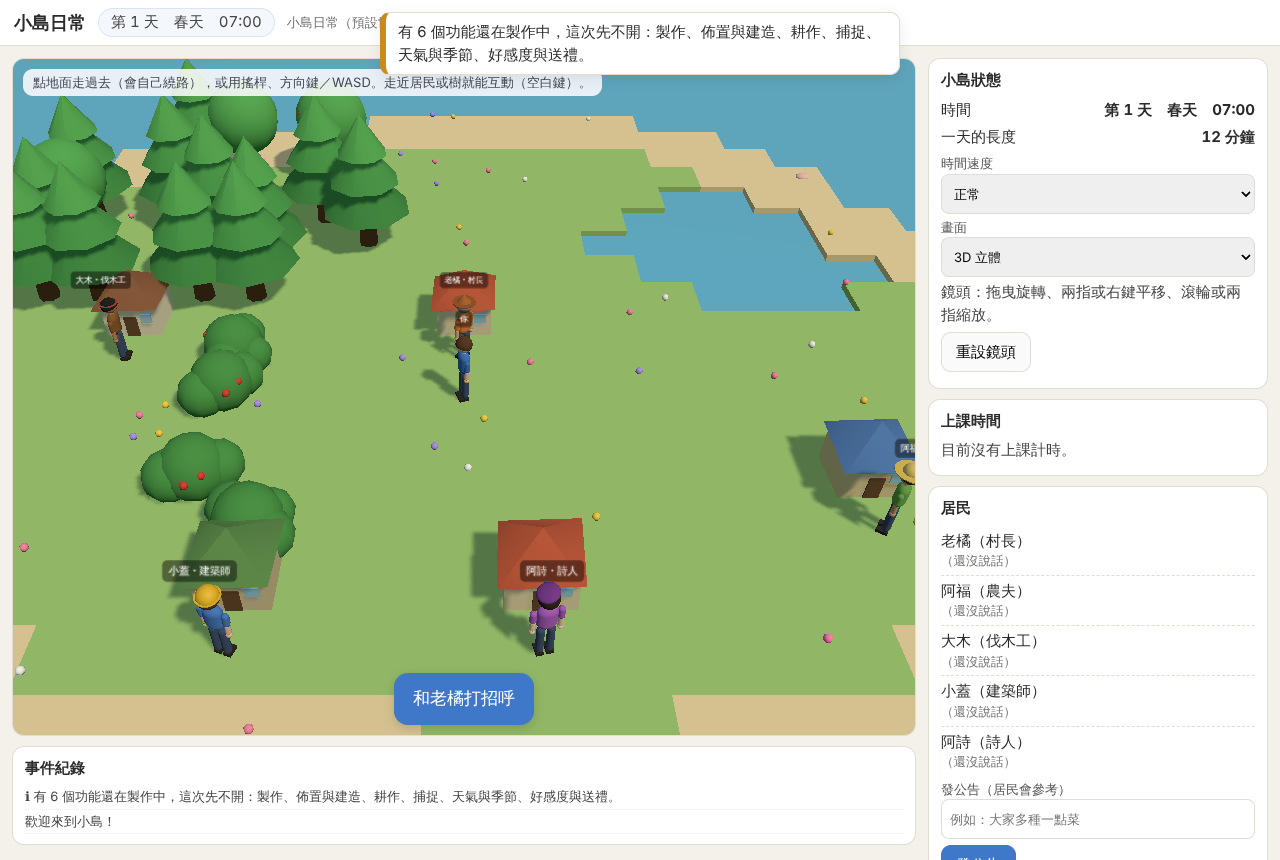
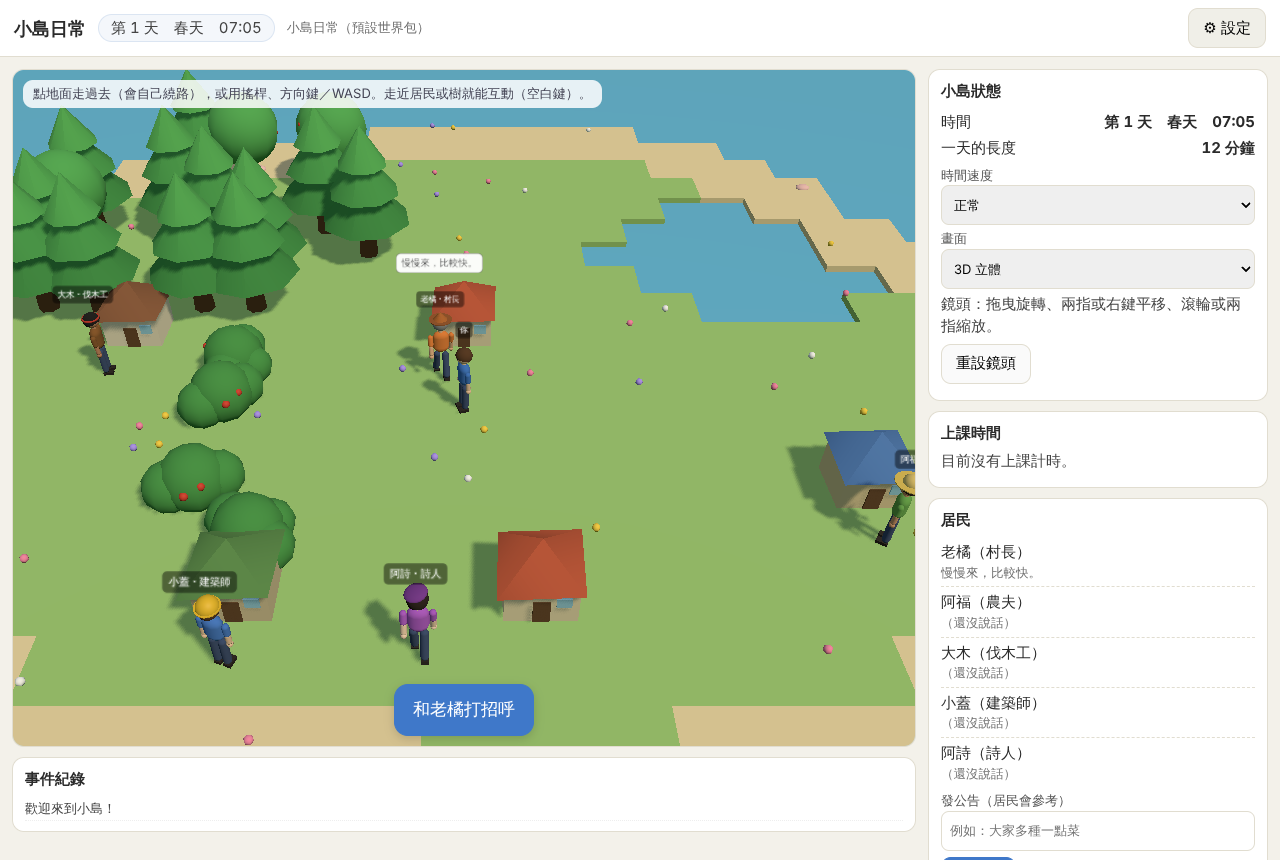
PR10：設定選單、回饋事件慣例、HUD 面板、輸入服務；玩家畫面不再顯示「還在製作中」
- 存檔、老師控制台、功能模組清單收進「⚙ 設定」選單（placement: 'settings'）；
  「還沒做好的功能」「不認得的功能」等管理資訊只在設定選單裡顯示
- 回饋事件慣例：<模組id>:feedback { kind, text, actor, at, entity, sound, quiet }；外殼替每個啟用的模組訂閱，目前顯示小字
- placement: 'hud' 的面板顯示在畫面上方
- 外殼服務：input（移動輸入、鏡頭角度）、policy 新增 playerMovement
- e2e 更新：設定選單、玩家畫面看不到管理資訊

未修改 src/core。

Claude-Session: https://claude.ai/code/session_0121tRRF6aCKPvw8nQbVPqNZ

diff --git a/src/shell/boot.js b/src/shell/boot.js
@@ -8,7 +8,7 @@
 //   ?seed=123              指定亂數種子（測試用）
 import { Engine, FrameworkError, validatePack, loadPack, parseOverrides, resolveEnabled, createCoreServices, defaultTextFilter } from '../core/index.js';
 import { createStorage } from './storage.js';
-import { createPanelHost, toast, log, showFatal, banner, showDialog } from './ui.js';
+import { createPanelHost, toast, log, showFatal, banner, showDialog, floatText } from './ui.js';
 import { createPlayerController } from './player.js';
 import { attachInput } from './input.js';
 import { createPolicy } from './policy.js';
@@ -89,14 +89,16 @@ async function boot() {
   // 3. 決定要開的模組（世界包預設 + 網址覆寫），載入程式
   const { enabled, config } = resolveEnabled(data.pack.modules, overrides);
   const notices = [];
-  const toLoad = [], notYet = [];
+  const toLoad = [], notYet = [], adminLater = [];
   for (const id of enabled) {
     const c = cat.get(id);
-    if (!c) notices.push(`網址或世界包裡的「${id}」不是已知的功能，已略過。`);
+    if (!c) adminLater.push(`網址或世界包裡的「${id}」不是已知的功能，已略過。`);
     else if (c.status === 'planned' || c.status === 'deferred') notYet.push(c.name || id);
     else toLoad.push(id);
   }
-  if (notYet.length) notices.push(`有 ${notYet.length} 個功能還在製作中，這次先不開：${notYet.join('、')}。`);
+  // 管理資訊（例如哪些功能還沒做好）只放在「設定」裡給老師看，不打擾玩家
+  const adminNotes = [...adminLater];
+  if (notYet.length) adminNotes.push(`有 ${notYet.length} 個功能還沒有做好，這次沒有開啟：${notYet.join('、')}。`);
   const defs = [];
   for (const id of toLoad) {
     try { defs.push((await import(`../modules/${id}/index.js`)).default); } catch (e) {
@@ -123,7 +125,10 @@ async function boot() {
     prefs: createPrefs(`townmind:${data.pack.id}`), // 和存檔分開的設定（例如老師密碼），開新遊戲不會清掉
     now: () => Date.now() + (debug.clockOffset || 0),
     save: () => requestSave(),
+    // 輸入（螢幕方向，長度 0～1）：給要自己控制角色的模組（例如競速時的滑板車）
+    input: { vector: () => inputRef?.vector() ?? { x: 0, y: 0 }, cameraAngle: () => (current === '3d' ? (views['3d']?.azimuth?.() ?? 0) : 0) },
   };
+  let inputRef = null;
   services.textFilter = (text, opts) => (policy.get('playerTyping', true) === false
     ? { ok: false, reason: policy.get('typingReason', '現在不能打字喔') }
     : defaultTextFilter(text, opts));
@@ -218,7 +223,10 @@ async function boot() {
   $('loading').remove();
 
   // 9. 面板：外殼自己的面板 + 模組註冊的宣告式面板
+  // 面板放哪裡：placement 'side'（右側，預設）、'hud'（畫面上方）、'settings'（設定選單，給老師與管理用）
   const host = createPanelHost($('panels'));
+  const settingsHost = createPanelHost($('settingsPanels'));
+  const hudHost = createPanelHost($('hudPanels'));
   const SPEEDS = [{ value: '0', label: '暫停' }, { value: '1', label: '正常' }, { value: '2', label: '2 倍' }, { value: '4', label: '4 倍' }, { value: '8', label: '8 倍' }];
   const shellPanels = () => [
     { id: 'shell.status', title: '小島狀態', order: 0, nodes: [
@@ -230,11 +238,11 @@ async function boot() {
       { type: 'select', name: 'view', label: '畫面', options: [{ value: '3d', label: '3D 立體' }, { value: '2d', label: '2D 俯視' }], value: current, onChange: 'view' },
       ...(current === '3d' ? [{ type: 'text', text: '鏡頭：拖曳旋轉、兩指或右鍵平移、滾輪或兩指縮放。' }, { type: 'button', label: '重設鏡頭', action: 'camReset' }] : []),
     ] },
-    ...engine.listPanels().filter((p) => typeof p.view === 'function').map((p) => ({ id: p.id, title: p.title, order: p.order, nodes: engine.renderPanel(p.id) })),
+    ...engine.listPanels().filter((p) => typeof p.view === 'function').map((p) => ({ id: p.id, title: p.title, order: p.order, placement: p.placement || 'side', nodes: engine.renderPanel(p.id) })),
     { id: 'shell.bag', title: '背包', order: 900, nodes: [
       { type: 'list', items: inventory.list('player').map((s) => ({ label: `${s.name} × ${s.qty}` })), empty: '背包是空的' },
     ] },
-    { id: 'shell.save', title: '存檔', order: 950, nodes: [
+    { id: 'shell.save', title: '存檔', order: 950, placement: 'settings', nodes: [
       { type: 'text', text: storage.persistent ? '每 20 秒與關閉網頁時會自動存檔。' : '⚠ 這個瀏覽器不能長期保存（可能是無痕模式），請記得「匯出存檔」。' },
       { type: 'buttons', items: [
         { type: 'button', label: '立刻存檔', action: 'save', primary: true },
@@ -246,9 +254,10 @@ async function boot() {
         ] : []),
       ] },
     ] },
-    { id: 'shell.modules', title: '這次開啟的功能', order: 990, nodes: [
-      { type: 'list', items: engine.enabledModules().map((id) => ({ label: labels[id] || id })), empty: '目前沒有開啟任何功能模組' },
-      ...(notices.length ? [{ type: 'list', items: notices.map((n) => ({ label: n })) }] : []),
+    { id: 'shell.modules', title: '功能模組', order: 990, placement: 'settings', nodes: [
+      { type: 'text', text: '這次開啟的功能（可在世界包 pack.json 或網址 ?mods=功能=off 開關）：' },
+      { type: 'list', items: engine.enabledModules().map((id) => ({ label: labels[id] || id, detail: id })), empty: '目前沒有開啟任何功能模組' },
+      ...([...adminNotes, ...notices].length ? [{ type: 'list', items: [...adminNotes, ...notices].map((n) => ({ label: n })) }] : []),
     ] },
   ].sort((a, b) => a.order - b.order);
 
@@ -304,9 +313,23 @@ async function boot() {
     const now = performance.now();
     if (!force && now - lastPanels < 300) return;
     lastPanels = now;
-    host.update(shellPanels(), { onButton });
+    const all = shellPanels();
+    host.update(all.filter((p) => !p.placement || p.placement === 'side'), { onButton });
+    settingsHost.update(all.filter((p) => p.placement === 'settings'), { onButton });
+    hudHost.update(all.filter((p) => p.placement === 'hud' && p.nodes.length), { onButton });
     $('clock').textContent = time.clockText();
   };
+
+  // 回饋事件：每個模組在關鍵時刻發「<模組id>:feedback」（成功、失敗、完成、解鎖、進度）。
+  // 外殼目前只顯示一個小提示；之後畫面特效、音效、粒子都訂閱同一個事件即可，不必改模組。
+  const feedbackLog = [];
+  for (const id of engine.enabledModules()) {
+    engine.events.on(`${id}:feedback`, (fb) => {
+      feedbackLog.push({ module: id, ...fb });
+      if (feedbackLog.length > 100) feedbackLog.shift();
+      if (fb?.text && fb.quiet !== true) floatText(fb.text, fb.kind);
+    });
+  }
 
   // 模組錯誤 → 事件紀錄（白話）；指令被拒 → 不吵，按鈕旁已有原因
   engine.events.on('core:dayStarted', (d) => { if (!d.offline) log(`🌅 第 ${d.day} 天開始了`); });
@@ -347,7 +370,7 @@ async function boot() {
     }
   };
   const wantStick = params.get('joystick') === '1' || (params.get('joystick') !== '0' && matchMedia('(pointer: coarse)').matches);
-  const input = attachInput({
+  const input = inputRef = attachInput({
     stage: $('stage'), joystick: wantStick,
     onTap: (x, y) => { const p = views[current].toWorld(x, y); if (p && !player.setTarget(p.x, p.y)) toast('那裡走不過去喔', 'warn', 2500); },
     onInteract: () => { const it = hudItems.find((x) => x.ok); if (it) runInteraction(it); },
@@ -371,9 +394,9 @@ async function boot() {
     let rem = time.advance(dt);
     if (rem > 0) while (rem > 0) { const s = Math.min(rem, 0.25); engine.update(s); rem -= s; }
     else if (now - lastIdle > 250) { lastIdle = now; engine.update(0); } // 暫停時系統仍收到 dt=0（例如課堂計時要繼續走）
-    steer();
+    if (policy.get('playerMovement', true)) steer(); else if (wasSteering) { wasSteering = false; player.stop(); }
     // 玩家用真實經過的時間（平板掉幀時也不會變慢），切成小步避免穿過東西
-    for (let left = raw; left > 1e-4; left -= 1 / 30) player.update(Math.min(left, 1 / 30));
+    if (policy.get('playerMovement', true)) for (let left = raw; left > 1e-4; left -= 1 / 30) player.update(Math.min(left, 1 / 30));
     // 目的地記號：點地面後顯示一個小圈圈，走到就消失（外殼自己的實體，不存檔）
     const tgt = player.target;
     if (tgt) { if (!entities.get('shell.marker')) entities.add({ id: 'shell.marker', kind: 'marker', owner: 'shell', art: 'marker', x: tgt.x, y: tgt.y }); else entities.move('shell.marker', tgt.x, tgt.y); }
@@ -406,7 +429,7 @@ async function boot() {
   }
 
   Object.assign(debug, {
-    status: 'running', engine, services, data, views, player, input, hud: () => hudItems, get view() { return current; }, setView, storage, notices, saveNow, isNew,
+    status: 'running', engine, services, data, views, player, input, hud: () => hudItems, feedback: feedbackLog, adminNotes, get view() { return current; }, setView, storage, notices, saveNow, isNew,
     snapshot: () => ({ day: time.day, minute: Math.round(time.minuteOfDay), modules: engine.enabledModules(), entities: entities.all().length, bag: inventory.list('player') }),
   });
 }

diff --git a/index.html b/index.html
@@ -55,6 +55,17 @@
   #fatal .hint { color:#555; }
   #banner { position:fixed; inset:0; display:none; flex-direction:column; align-items:center; justify-content:center; gap:10px; background:rgba(40,60,90,.55); color:#fff; font-size:clamp(24px, 5vw, 44px); font-weight:bold; text-align:center; z-index:25; padding:24px; cursor:pointer; }
   #banner small { font-size:16px; font-weight:normal; opacity:.85; }
+  #settings { position:fixed; top:0; right:0; bottom:0; width:min(420px, 100vw); background:var(--bg); border-left:1px solid var(--line); box-shadow:-6px 0 24px rgba(0,0,0,.12); z-index:22; overflow:auto; padding:12px; display:none; }
+  #settings.open { display:block; }
+  .settings-head { display:flex; align-items:center; justify-content:space-between; }
+  .settings-head h2 { margin:0; font-size:18px; }
+  #hudPanels { position:absolute; top:44px; left:50%; transform:translateX(-50%); display:flex; gap:8px; z-index:2; pointer-events:none; }
+  #hudPanels .panel { margin:0; padding:6px 12px; background:rgba(255,255,255,.92); min-width:200px; }
+  #hudPanels .panel h2 { font-size:13px; margin:0 0 2px; }
+  #feedback { position:absolute; top:96px; left:50%; transform:translateX(-50%); display:flex; flex-direction:column; align-items:center; gap:4px; pointer-events:none; z-index:2; }
+  .fb { background:rgba(255,255,255,.94); border-radius:999px; padding:4px 14px; font-weight:bold; box-shadow:0 2px 8px rgba(0,0,0,.12); animation: fbUp 2.6s ease-out forwards; }
+  .fb-fail { color:#8a5a00; } .fb-complete, .fb-unlock { color:#2e6b2f; }
+  @keyframes fbUp { 0% { opacity:0; transform:translateY(8px); } 10% { opacity:1; transform:none; } 80% { opacity:1; } 100% { opacity:0; transform:translateY(-12px); } }
   #loading { position:absolute; inset:0; display:flex; align-items:center; justify-content:center; color:#456; font-size:16px; }
 </style>
 </head>
@@ -63,6 +74,7 @@
   <h1 id="title">小島日常</h1>
   <span id="clock">載入中…</span>
   <span id="packName"></span>
+  <button id="settingsBtn" aria-label="設定" style="margin-left:auto">⚙ 設定</button>
 </header>
 <main>
   <section>
@@ -71,6 +83,8 @@
       <canvas id="view2d" style="display:none"></canvas>
       <canvas id="view3d" style="display:none; cursor:grab"></canvas>
       <div id="help">點地面走過去（會自己繞路），或用搖桿、方向鍵／WASD。走近居民或樹就能互動（空白鍵）。</div>
+      <div id="hudPanels"></div>
+      <div id="feedback" aria-live="polite"></div>
       <div id="hud"></div>
     </div>
     <div class="panel" style="margin-top:10px">
@@ -80,8 +94,18 @@
   </section>
   <aside id="panels"></aside>
 </main>
+<div id="settings" role="dialog" aria-label="設定">
+  <div class="settings-head"><h2>設定</h2><button id="settingsClose">關閉</button></div>
+  <p class="hint">存檔、老師控制台、功能模組都在這裡。</p>
+  <div id="settingsPanels"></div>
+</div>
 <div id="toasts" aria-live="polite"></div>
 <div id="fatal" role="alertdialog"><div class="box"></div></div>
+<script>
+  // 設定選單的開關（不依賴遊戲程式，載入失敗時也能打開）
+  document.getElementById('settingsBtn').onclick = () => document.getElementById('settings').classList.toggle('open');
+  document.getElementById('settingsClose').onclick = () => document.getElementById('settings').classList.remove('open');
+</script>
 <script type="module" src="./src/shell/boot.js"></script>
 </body>
 </html>

diff --git a/src/shell/ui.js b/src/shell/ui.js
@@ -112,6 +112,17 @@ export function log(text) {
   for (const line of logLines.slice(-30).reverse()) box.append(el('div', '', line));
 }
 
+// ---------- 回饋小字（成功、完成、解鎖……），浮在畫面上方一下就消失 ----------
+const FB_ICON = { success: '✨', fail: '💦', complete: '🎉', unlock: '🔓', progress: '…' };
+export function floatText(text, kind = 'success') {
+  const box = document.getElementById('feedback');
+  if (!box) return;
+  const t = el('div', `fb fb-${kind}`, `${FB_ICON[kind] || ''} ${text}`);
+  box.append(t);
+  while (box.children.length > 4) box.firstChild.remove();
+  setTimeout(() => t.remove(), 2600);
+}
+
 // ---------- 畫面中央的大訊息（例如「下課囉」） ----------
 export function banner(text, ms = 12000) {
   let b = document.getElementById('banner');

diff --git a/src/shell/policy.js b/src/shell/policy.js
@@ -6,6 +6,7 @@
 //   maxSpeed（number）：學生能選的最高時間倍率
 //   playerTyping（bool）：玩家能不能打字（公告等 userText 參數）；關掉時一律拒絕並說明
 //   typingReason（string）：關掉打字時給學生看的原因
+//   playerMovement（bool）：外殼要不要移動玩家（競速時由模組自己控制，就關掉）
 //   playerSaveControl（bool）：學生能不能匯入存檔、讀取備份、開新遊戲
 // 同一個規則被多個模組設定時，以「最嚴格」為準（bool 取 false、數字取最小）。
 

diff --git a/src/modules/classroom/index.js b/src/modules/classroom/index.js
@@ -159,7 +159,7 @@ export default {
       { type: 'button', label: `${label}：關`, command: cmdId, args: { allowed: false }, primary: !on },
     ] });
     ctx.registerPanel({
-      id: 'classroom.teacher', title: '老師控制台', order: 980,
+      id: 'classroom.teacher', title: '老師控制台', order: 980, placement: 'settings', // 收在設定選單裡
       view() {
         if (!pinIsSet()) {
           return [
